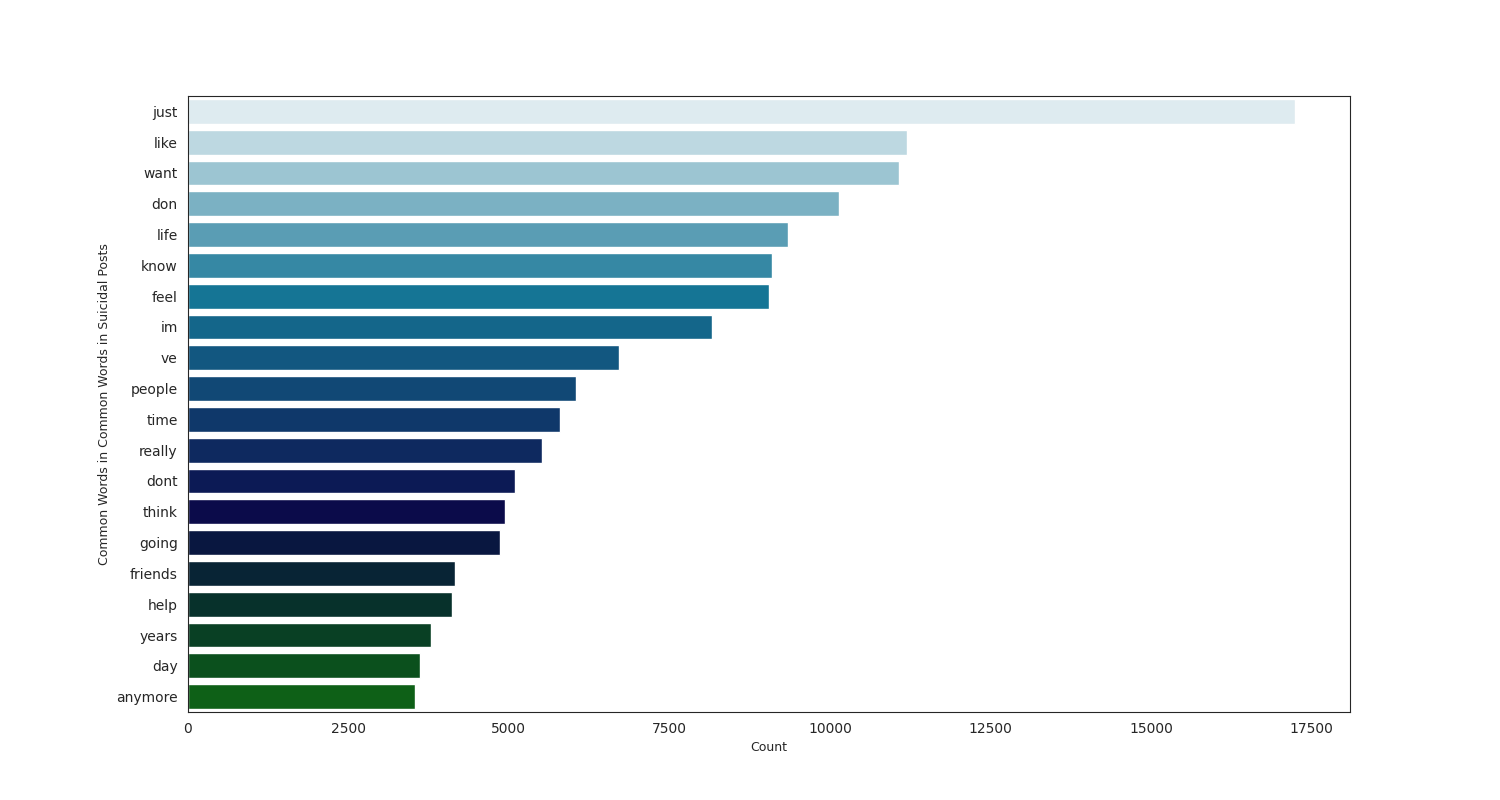
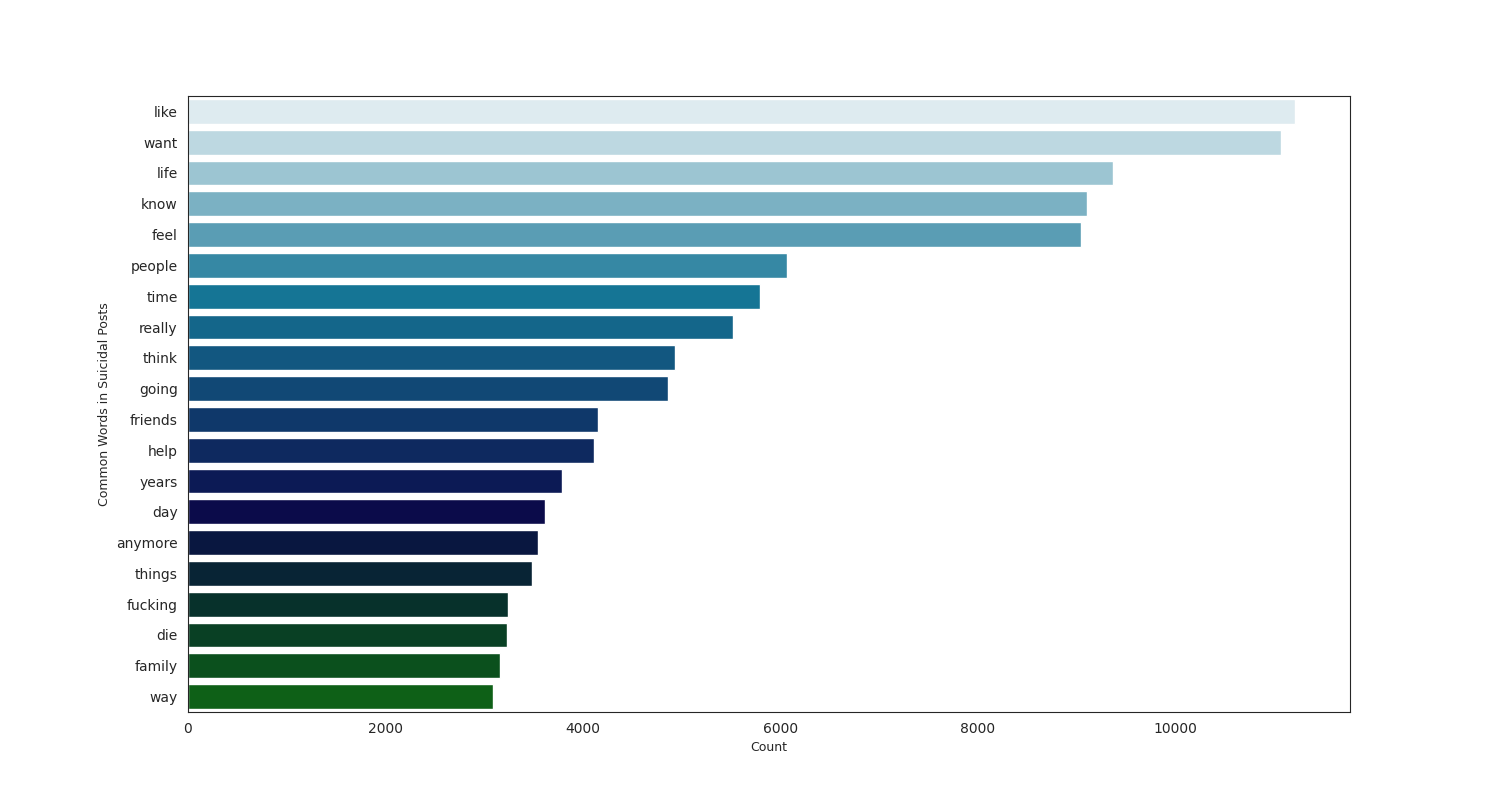
fixed ' and ’ problem in preprocessing

diff --git a/preprocessdata.py b/preprocessdata.py
@@ -14,11 +14,14 @@ from sklearn.preprocessing import LabelEncoder
 # the Naive Bayes model
 from sklearn.naive_bayes import MultinomialNB
 from sklearn.metrics import precision_recall_fscore_support
+from nltk.tokenize import word_tokenize
+import nltk
+from nltk.corpus import stopwords
 
 
 def preprocess(file1, file2):
 
-    # ----------- Data preprocessing ---------- #
+    # ----------- DATA PREPROCESSING ---------- #
 
     global suicide_posts 
     global depress_posts 
@@ -29,11 +32,11 @@ def preprocess(file1, file2):
     with open(file1) as f:
         csvr = csv.reader(f, delimiter=',')
         header = []
-        # Extract the field names
+        # EXTRACT THE FIELD NAME
         header = next(csvr)
         for row in csvr:
             suicide_depression_posts[row[1]] = row[2] 
-        # change the text to lower case and collect all posts
+        # CHANGE THE TEXT TO LOWER CASE AND COLLECT ALL POSTS
         suicide_posts = [k for k, v in suicide_depression_posts.items() if v == 'suicide']
         depress_posts = [k for k, v in suicide_depression_posts.items() if v == 'non-suicide']
         # print(len(suicide_posts), len(depress_posts))  result: 116037
@@ -49,7 +52,9 @@ def preprocess(file1, file2):
         rows = []
         for row in csvr:
             try:
-                general_posts[row[1]] = row[2] 
+                if row[2] != 'pcmasterrace':
+                    general_posts[row[1]] = row[2] # REMOVE POSTS UNDER 'pcmasterrace' WHICH CONTAINS TOO MUCH PC-RELATED WORDS WHICH HAS HIGH FREQUENCY
+                 
             except:
                 continue
     lis = []
@@ -69,7 +74,7 @@ def preprocess(file1, file2):
                 postsnum.append(k)
         # print(i, len(postsnum)) # 4161, 8923, 10268, 8819, 6075
     
-    # As these general posts are not the target suicidal posts, they're all labelled as 'general'
+    # SET LABEL "GENERAL" TO ALL POSTS FROM THE GENERAL TOPICS
     general_posts = {x:'general' for x in general_posts}
     
     # because the "general" posts are way less than the suicide and non-suicide posts (depression posts)
@@ -79,31 +84,51 @@ def preprocess(file1, file2):
     depress_posts = depress_posts[:10000]
     general_posts = list(general_posts.keys())[:10000]
     
+    # # Stop words are nothing but high-frequency words
+    STOP_WORDS_LIST =stopwords.words('english')
+
     # remove the unnecessary meaningless chars 
     def normalize_text(s):
         # convert all posts into lowercase
         s = str(s)
         s = s.lower()
+        s = ' '.join([word for word in s.split() if word not in STOP_WORDS_LIST])
 
-        # remove punctuation that is not word-internal (e.g., hyphens, apostrophes) 
-        s = re.sub('\s\W', ' ', s)
-        s = re.sub('\W\s', ' ', s)
+    
+        # some further cleaning
+        # specific
+        s = re.sub(r"won\'t", "will not", s)
+        s = re.sub(r"can\'t", "can not", s)
 
-        # make sure no double spaces 
-        s = re.sub('\s+', ' ', s)
-        s = s.replace('&#039;', ' a')
+        # general
+        s = re.sub(r"n\’t", " not", s)
+        s = re.sub(r"\’re", " are", s)
+        s = re.sub(r"\’s", " is", s)
+        s = re.sub(r"\’d", " would", s)
+        s = re.sub(r"\’ll", " will", s)
+        s = re.sub(r"\’t", " not", s)
+        s = re.sub(r"\’ve", " have", s)
+        s = re.sub(r"\’m", " am", s)
+        s = re.sub(r"\'m", " am", s)
+        s = re.sub(r"n\'t", " not", s)
+        s = re.sub(r"\'re", " are", s)
+        s = re.sub(r"\'s", " is", s)
+        s = re.sub(r"\'d", " would", s)
+        s = re.sub(r"\'ll", " will", s)
+        s = re.sub(r"\'t", " not", s)
+        s = re.sub(r"\'ve", " have", s)
 
-        # remove non-ASCII chars 
-        s = re.sub(r'[^\x00-\x7F]+', '', s)
 
         return s
-
+    
+    # print(normalize_text("I’m so lostHello, "))
     suicide_posts = [normalize_text(s) for s in suicide_posts]
+
     depress_posts = [normalize_text(s) for s in depress_posts]
     general_posts = [normalize_text(s) for s in general_posts]
 
     suicide_label = ['suicide' for i in range(10000)]
-    depress_label = ['non-suicide' for i in range(10000)]
+    depress_label = ['depression' for i in range(10000)]
     general_label = ['general' for i in range(10000)]
 
 
@@ -113,3 +138,9 @@ def preprocess(file1, file2):
     
 
 suicide_posts, depress_posts, general_posts, suicide_label, depress_label, general_label = preprocess("Suicide_Detection.csv", "reddit_data.csv")
+alltokens = [word_tokenize(x) for x in general_posts ]
+alltokens = [item for sublist in alltokens for item in sublist]
+Counter = Counter(alltokens)
+most_occure = Counter.most_common(20)
+
+# print(most_occure)

diff --git a/text_feature_exploration.py b/text_feature_exploration.py
@@ -8,30 +8,24 @@ import seaborn as sns
 import matplotlib.pyplot as plt
 from PIL import Image
 from statistics import mean
-
+from collections import Counter
+from nltk.tokenize import word_tokenize
+from nltk.tokenize import RegexpTokenizer
+from nltk.corpus import stopwords
 
 
 pd.set_option('display.max_columns', 100)
 sns.set_style("darkgrid")
 
-
 suicide_posts, depress_posts, general_posts, suicide_label, depress_label, general_label = preprocess("Suicide_Detection.csv", "reddit_data.csv")
 
-# Create CountVectorizer, which create bag-of-words model.
-# stop_words : Specify language to remove stopwords. 
-sui_vectorizer = CountVectorizer(stop_words='english')
-
-# Learn vocabulary in sentences. 
-sui_vectorizer.fit(suicide_posts)
-
-# Get dictionary. 
-sui_vectorizer.get_feature_names()
 
 #DEFINING A FUNCTION TO VISUALISE MOST USED WORDS
 def plot_most_used_words(dataname, data_series, palette):
-    #CHECKING OUT COMMON WORDS IN r/SuicideWatch USING CVEC
+    #CHECKING OUT COMMON WORDS IN THE DATA USING CVEC
     cvec = CountVectorizer(stop_words='english')
     cvec.fit(data_series)
+
     #CREATING A DATAFRAME OF EXTRACTED WORDS
     created_df = pd.DataFrame(cvec.transform(data_series).todense(),
                               columns=cvec.get_feature_names())
@@ -46,7 +40,7 @@ def plot_most_used_words(dataname, data_series, palette):
     ax = sns.barplot(y= top_20_words_df.index, x="count", data=top_20_words_df, palette = palette)
     
     plt.xlabel("Count", fontsize=9)
-    plt.ylabel('Common Words in ' + dataname, fontsize=9)
+    plt.ylabel(dataname, fontsize=9)
     plt.savefig('/home/nauxiy/Workspace/Suicidal-posts-detection-SNLP-/plots/' + dataname + ".png")
 
     # plt.show()
@@ -54,7 +48,7 @@ def plot_most_used_words(dataname, data_series, palette):
 
 plot_most_used_words("Common Words in Suicidal Posts", suicide_posts, palette="ocean_r")
 plot_most_used_words("Common Words in Depression Posts", depress_posts, palette="magma")
-plot_most_used_words("Common Words in General Posts", general_posts, palette="ocean_r")
+plot_most_used_words("Common Words in General Posts", general_posts, palette="Greens_r")
 
 # COLLECT EACT POST'S LENGTH
 sui_selftext_length = [len(suicide_posts[i]) for i in range(len(suicide_posts))]
